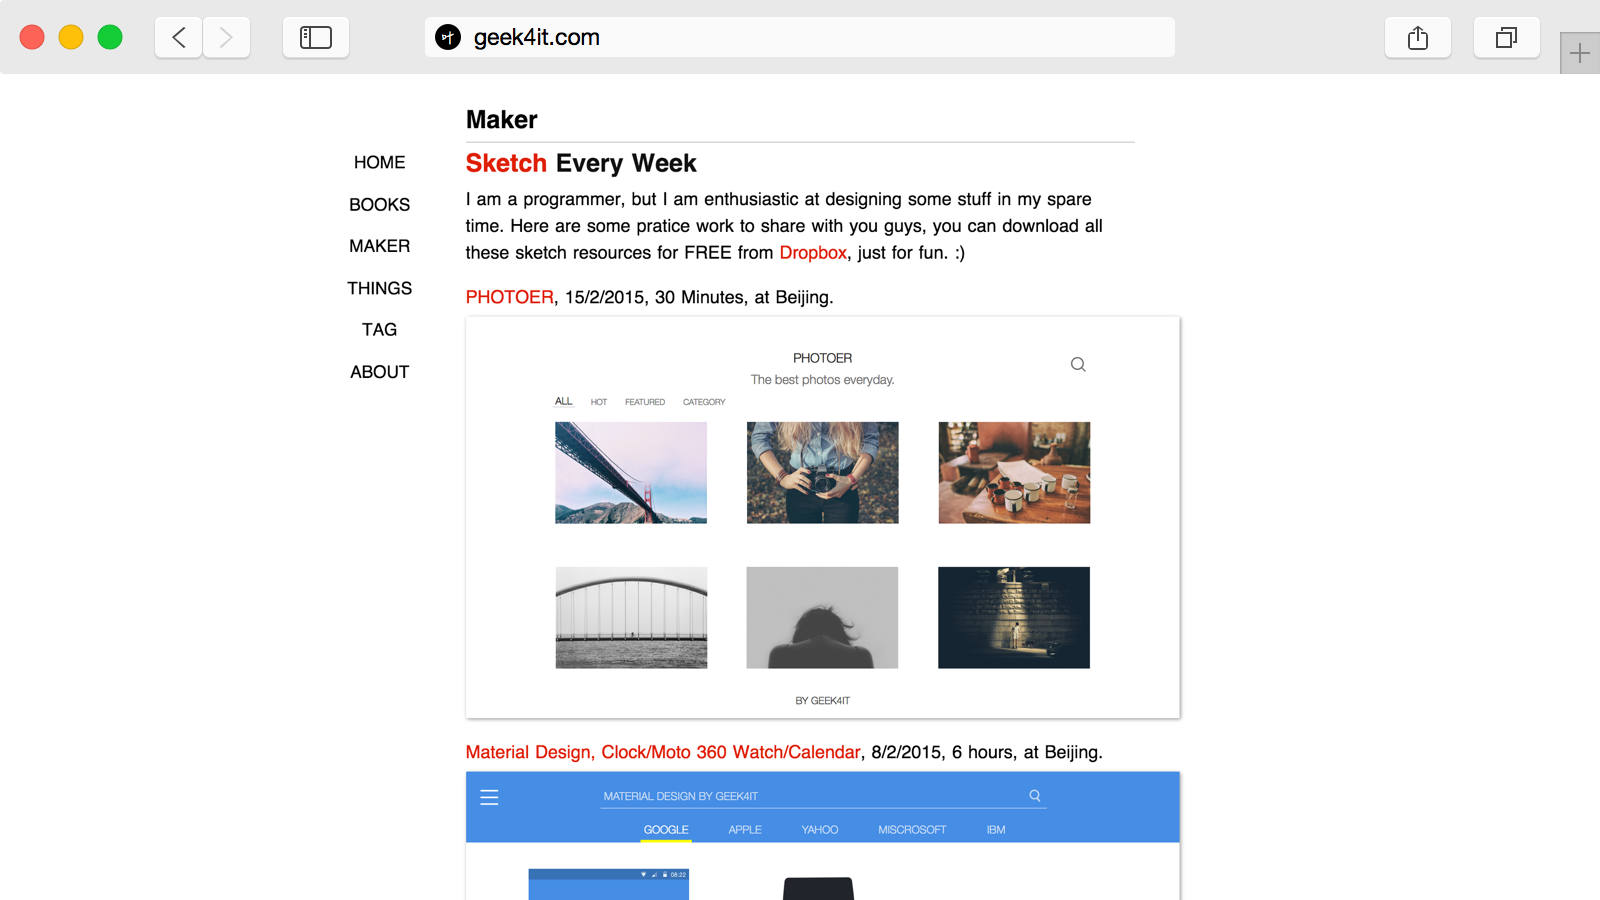
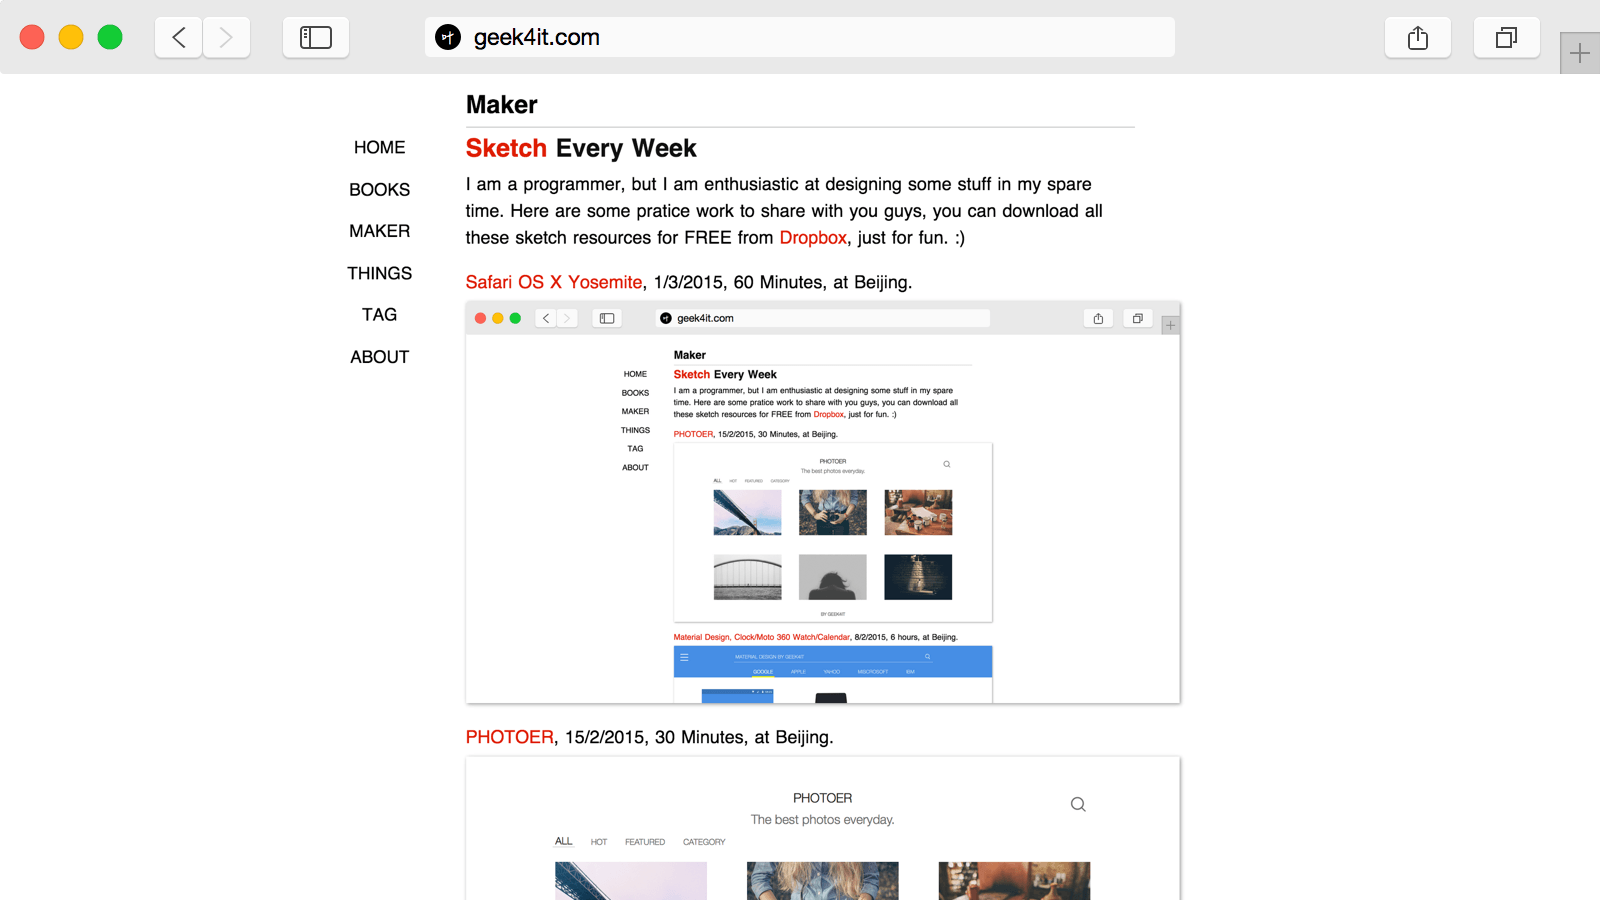
Safari

Changed region(s): [[0.2188, 0.0933, 0.75, 1.0], [0.6875, 0.3422, 0.75, 0.3733]]

diff --git a/maker/index.md b/maker/index.md
@@ -8,7 +8,7 @@ thread: 618
 
 I am a programmer, but I am enthusiastic at designing some stuff in my spare time. Here are some pratice work to share with you guys, you can download all these sketch resources for FREE from [Dropbox](http://goo.gl/awKAfD), just for fun. :)
 
-[Safari OS X Yosemite](http://goo.gl/cqTzih), 1/3/2015, 60 Minutes, at Beijing.
+[Safari OS X Yosemite](http://goo.gl/AV5LzN), 1/3/2015, 60 Minutes, at Beijing.
 ![Alt text](/images/sketch/Safari.png)
 
 [PHOTOER](http://goo.gl/cqTzih), 15/2/2015, 30 Minutes, at Beijing.
